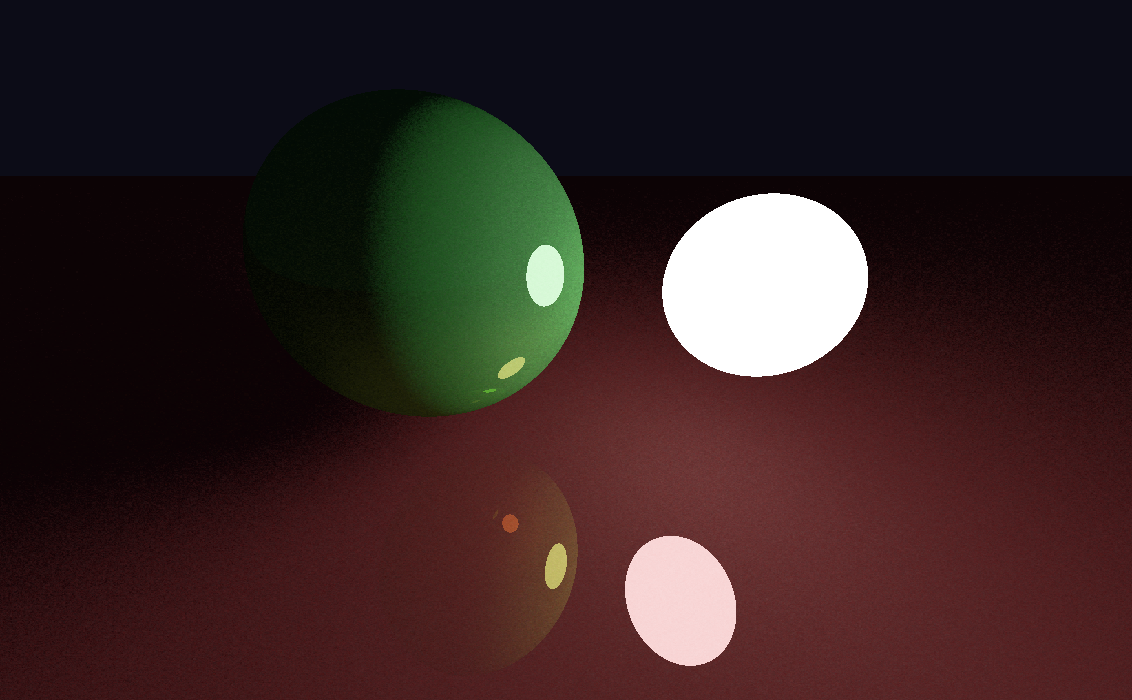
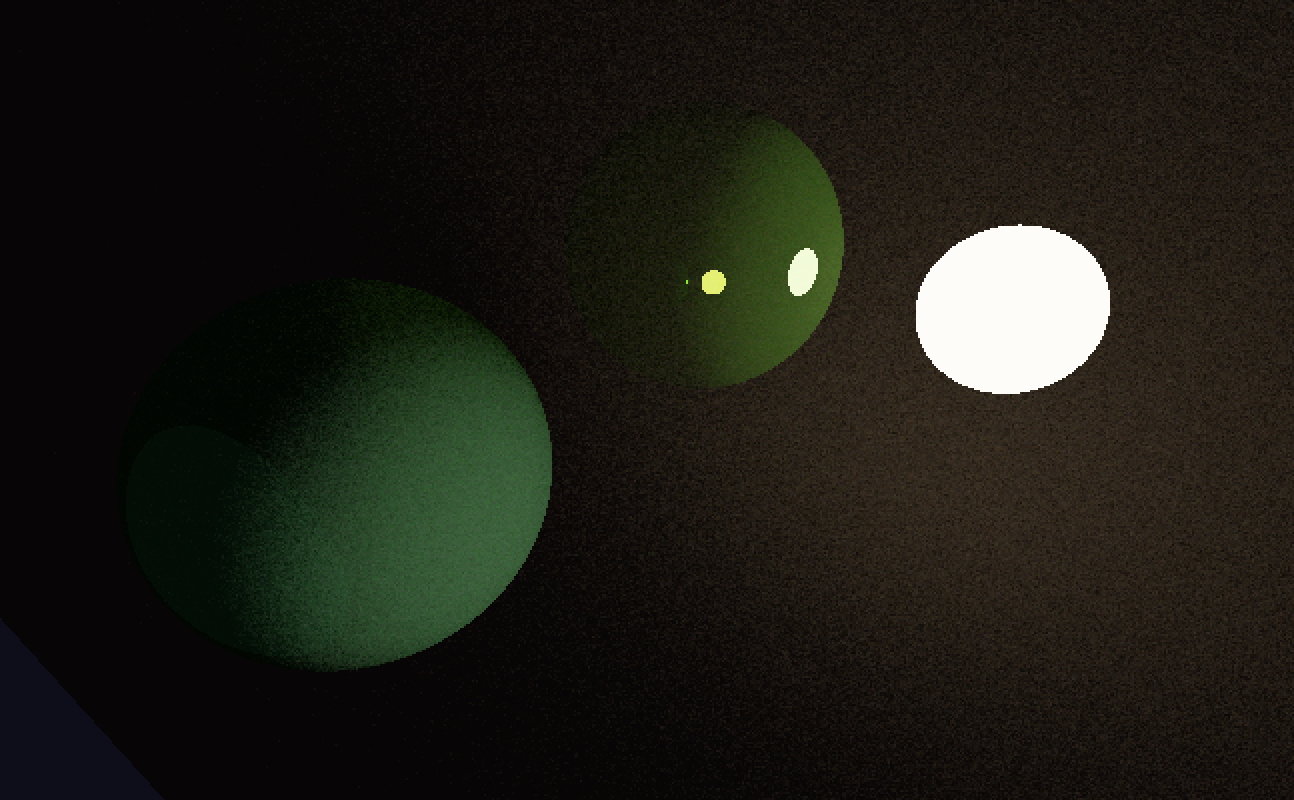
Последние поправки перед публикацией.

diff --git a/src/controls.cpp b/src/controls.cpp
@@ -40,9 +40,9 @@ static void build_view_drct() {
     .right   = Vec4(1, 0, 0, 0),
     .w_drct  = Vec4(0, 0, 0, 1)
   };
-  rotate(sph_view_drct.psi, &view_drct.forward, &view_drct.w_drct);
-  rotate(sph_view_drct.fi, &view_drct.right, &view_drct.forward);
-  rotate(sph_view_drct.te, &view_drct.forward, &view_drct.top);
+  rotate(sph_view_drct.psi, &view_drct.forward, &view_drct.w_drct );
+  rotate(sph_view_drct.fi , &view_drct.right  , &view_drct.forward);
+  rotate(sph_view_drct.te , &view_drct.forward, &view_drct.top    );
 }
 
 // Поворот камеры (взора).
@@ -56,7 +56,7 @@ static void change_view_drct(float d_psi, float d_te, float d_fi) {
 // Всё, что касается клавиатуры и перемещения.
 
 Vec4 focus = Vec4(0, -5, 0, 0); // Точка за матрицей (виртуальным экраном), откуда летят лучи.
-static float speed = 0.06f;     // Скорость перемещения.
+static float speed = 0.12f;     // Скорость перемещения.
 
 static struct {
   bool forward = false;  bool back  = false;

diff --git a/README.md b/README.md
@@ -10,6 +10,10 @@
 Сейчас в программе можно относительно легко добавлять на сцену гиперсферы и пространства, а также менять цвет и яркость фона.
 Все объекты обладают такими свойствами, как степень светимости и зеркальности.
 То есть объекты могут быть светящимися, матовыми или зеркальными в той или иной степени.
+Настраивается это всё непосредственно в коде шейдера (файл shader.frag). Там есть массив гиперсфер и пространств.
+
+Разрешение экрана и размер пикселей можно менять в первых двух строках кода файла main.cpp.
+Параметры управления – в файле controls.cpp.
 
 Перемещение в текущем сечении при помощи клавиш W, S, D, A, Shift и Space, а также в четвёртое измерение клавишами E и Q.
 Камера в текущем сечении (относительн плоскостей верх-w и право-w) вращается при помощи мышки. Колёсиком её можно повернуть
@@ -23,10 +27,11 @@
 
 ## Немного скриншотов
 
+Несколько шариков.
 ![](/screenshots/screen1.png)
 
+Два зеркала друг напротив друга.
 ![](/screenshots/screen2.png)
 
+Отражение того, чего нет в нашем сечении.
 ![](/screenshots/screen3.png)
-
-![](/screenshots/screen4.png)
